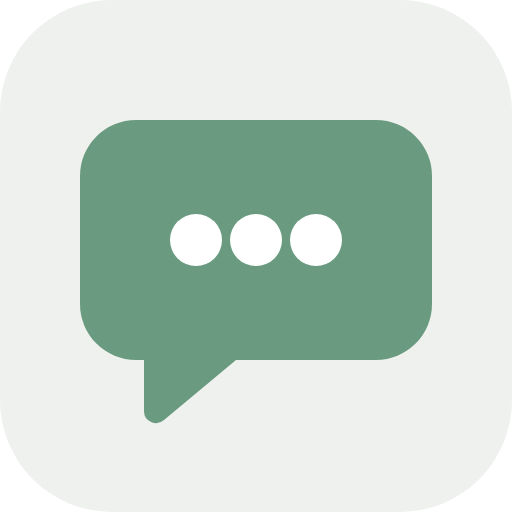
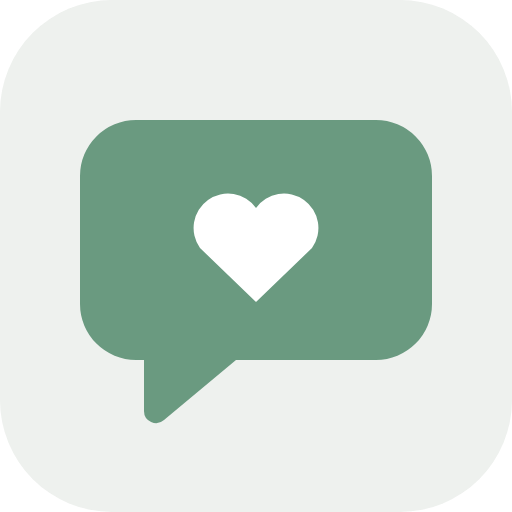
리네임: 또박또박 → 마음말 (마음을 말하는 카드)
AAC 도구의 이름을 '마음말'로 변경 — 마음을 말해주는 앱이라는 뜻.

- aac.html 타이틀·apple-mobile-web-app-title
- 매니페스트 name/short_name (홈 화면 설치명 '마음말')
- 화면 헤더, CLAUDE.md 문서
- 앱 아이콘: 말풍선 속 점 3개 → 하트 (마음+말 표현, svg·png 재생성)
- '말 속도 (느릴수록 또박또박)' 등 부사 용례는 유지

Claude-Session: https://claude.ai/code/session_01G14UUQdQ4frznyW5ki3b84

Changed region(s): [[0.3125, 0.375, 0.6875, 0.5938]]

diff --git a/aac.html b/aac.html
@@ -12,14 +12,14 @@
     <link rel="icon" href="./aac-icon.svg" type="image/svg+xml" />
     <link rel="apple-touch-icon" href="./aac-icon-192.png" />
     <meta name="apple-mobile-web-app-capable" content="yes" />
-    <meta name="apple-mobile-web-app-title" content="또박또박" />
+    <meta name="apple-mobile-web-app-title" content="마음말" />
     <link
       rel="stylesheet"
       as="style"
       crossorigin
       href="https://cdn.jsdelivr.net/gh/orioncactus/pretendard@v1.3.9/dist/web/variable/pretendardvariable-dynamic-subset.min.css"
     />
-    <title>또박또박 — 차분한 말하기 카드</title>
+    <title>마음말 — 마음을 말하는 카드</title>
   </head>
   <body>
     <div id="aac-root"></div>

diff --git a/src/aac/App.tsx b/src/aac/App.tsx
@@ -152,7 +152,7 @@ export default function App() {
       <header className="aac-top">
         <div className="aac-title">
           <span className="aac-logo" aria-hidden>🗣️</span>
-          <span>또박또박</span>
+          <span>마음말</span>
         </div>
         <div className="aac-top-actions">
           <button

diff --git a/CLAUDE.md b/CLAUDE.md
@@ -17,7 +17,7 @@
 - `src/lib/group.ts` — 모임(방코드·피드·함께읽기) API. Supabase 미설정 시 비활성
 - `src/screens/` — Home(스트릭·목표·읽는중) / Library / Search / BookDetail / Stats(뱃지·캘린더·도넛·결산) / Group(모임) / Settings
 
-## 독립 모듈 — 또박또박 (감각 친화 AAC)
+## 독립 모듈 — 마음말 (감각 친화 AAC)
 - 독서앱과 별개인 보완대체의사소통(AAC) 도구. 진입점 `aac.html`(멀티 페이지, vite `rollupOptions.input`) → 배포 시 `/aac.html`
 - `src/aac/` — main / App(카드 그리드·문장 스트립·편집) / Settings(감각 조절 시트) / data(기본 어휘) / store(localStorage `bookbloom_aac_v1`) / speech(Web Speech API TTS) / eleven(ElevenLabs TTS + IndexedDB 캐시) / images(사용자 사진 카드 — IndexedDB `aac_images`, 업로드 시 512px JPEG 축소) / hold(보호자 잠금 길게 누르기) / aac.css
 - 카드는 이모지 또는 **사용자 사진**(보호자가 편집 모드에서 업로드) 표시. 사진은 IndexedDB 저장·카드엔 id만 보관, 삭제 시 이미지도 정리